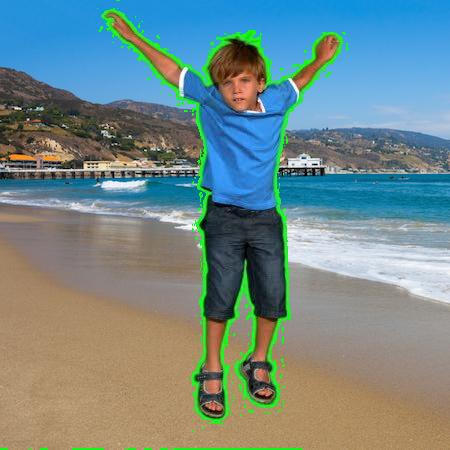
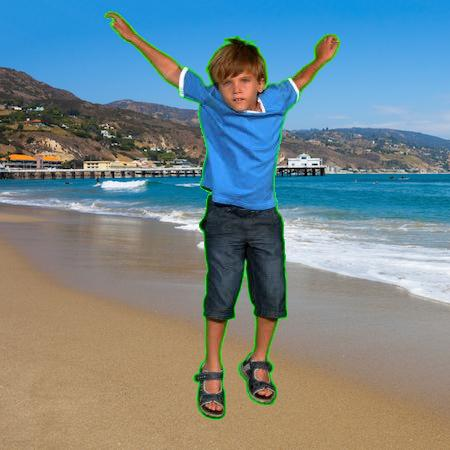
colooooooours

diff --git a/image_problem.py b/image_problem.py
@@ -1,0 +1,47 @@
+# Solutions to Questions about Images
+# Author: Ubial
+# 20 December 2023
+
+from PIL import Image
+
+import colour_helper
+
+
+# Question 2: Binarizing an image
+def binarize(filename: str) -> None:
+    """Binarize a given image that's in the Image folder"""
+
+    with Image.open(f"./Images/{filename}") as im:
+        # Visit every pixel
+        for y in range(im.height):
+            for x in range(im.width):
+                pixel = im.getpixel((x, y))
+
+                if colour_helper.is_light(pixel):
+                    # replace with white pixel
+                    im.putpixel((x, y), colour_helper.WHITE_PIXEL)
+                else:
+                    # replace with a black pixel
+                    im.putpixel((x, y), colour_helper.BLACK_PIXEL)
+
+        # Save the image
+        im.save("./Images/binarized.jpg")
+
+
+def image_to_grayscale(filename: str) -> None:
+    """Convert an image to grayscale"""
+
+    with Image.open(f"./Images/{filename}") as im:
+        # Visit every pixel
+        for y in range(im.height):
+            for x in range(im.width):
+                pixel = im.getpixel((x, y))
+
+                # Put pixel that is a grayscale version
+                im.putpixel((x, y), colour_helper.pixel_to_grayscale(pixel))
+
+        im.save("./Images/grayscale.jpg")
+
+
+binarize("kid-green.jpg")
+image_to_grayscale("best_pizza.jpg")

diff --git a/colour_helper.py b/colour_helper.py
@@ -5,6 +5,11 @@
 # Do you need help with colours?
 # This is for you!
 
+BLACK_PIXEL = (0, 0, 0)
+DARK_GRAY_PIXEL = (127, 127, 127)
+LIGHT_GRAY_PIXEL = (128, 128, 128)
+WHITE_PIXEL = (255, 255, 255)
+
 
 def pixel_to_string(pixel: tuple) -> str:
     """Take a rgb 3-tuple and "interpret it"
@@ -18,5 +23,24 @@ def pixel_to_string(pixel: tuple) -> str:
     """
     r, g, b = pixel
 
-    if g > 250 and r < 32 and b < 32:
+    if g > 220 and r < 120 and b < 120:
         return "green"
+
+
+def is_light(pixel: tuple) -> bool:
+    """Returns true if given pixel is "light"
+
+    Params:
+        pixel - 3-tuple of values red, green, blue
+
+    Returns:
+        True if pixel is light false if not
+    """
+    return pixel >= (128, 128, 128)
+
+
+def pixel_to_grayscale(pixel: tuple) -> tuple:
+    """Returns a grayscale version of the given pixel"""
+    gray = int(pixel[0] * 0.3 + pixel[1] * 0.59 + pixel[2] * 0.11)
+
+    return (gray, gray, gray)
